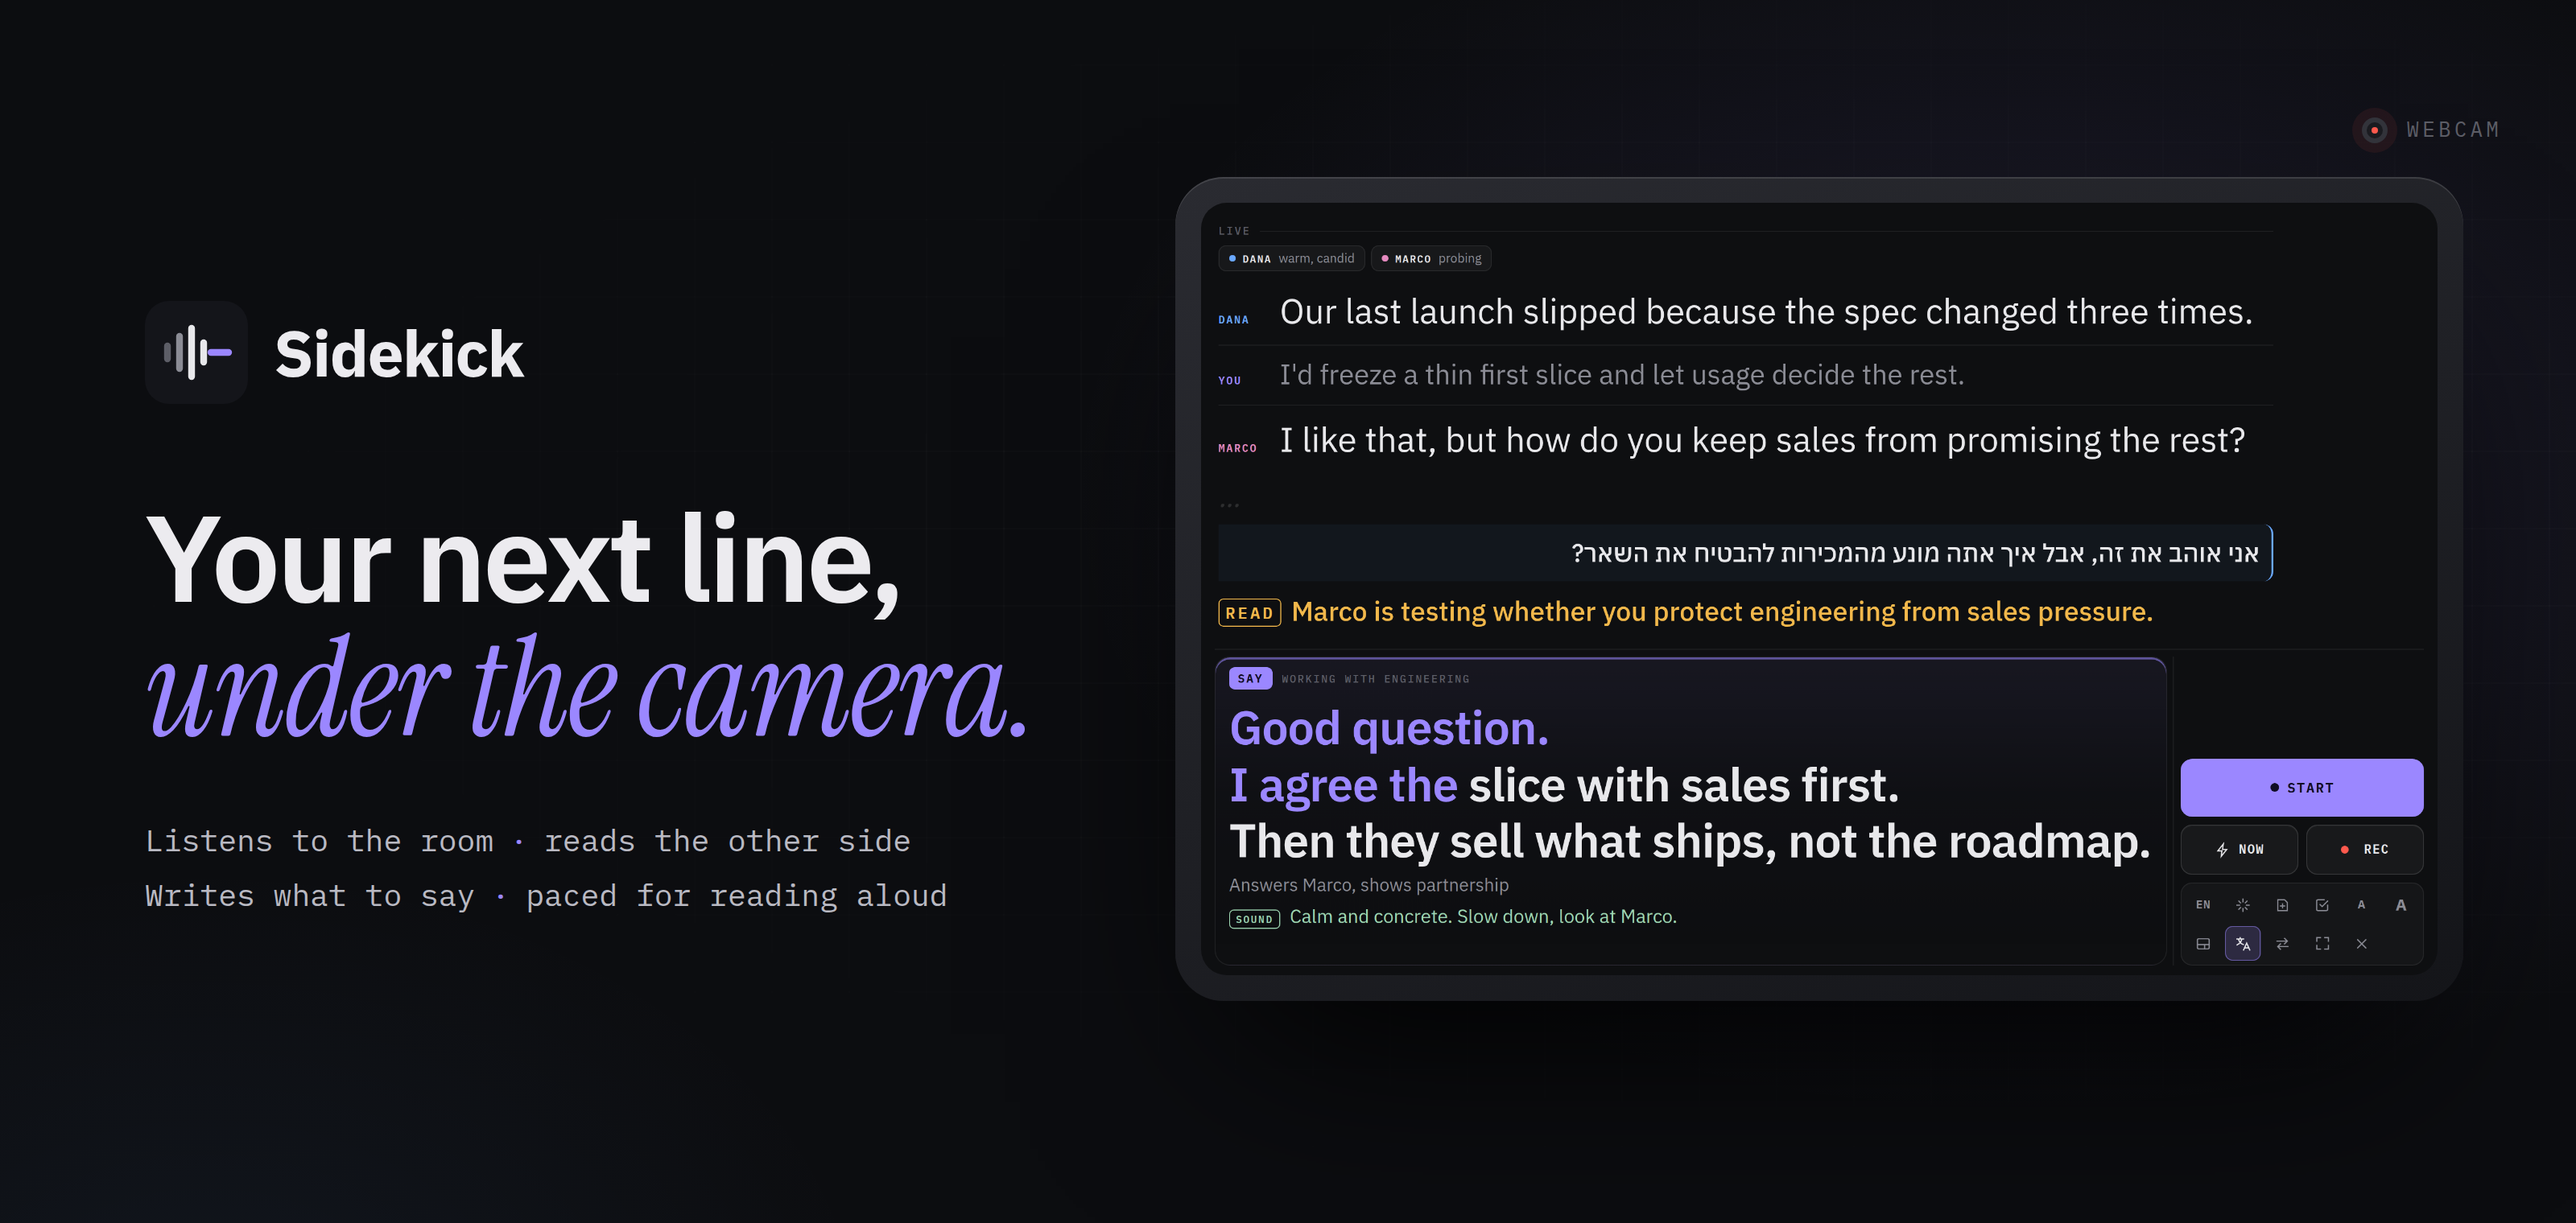
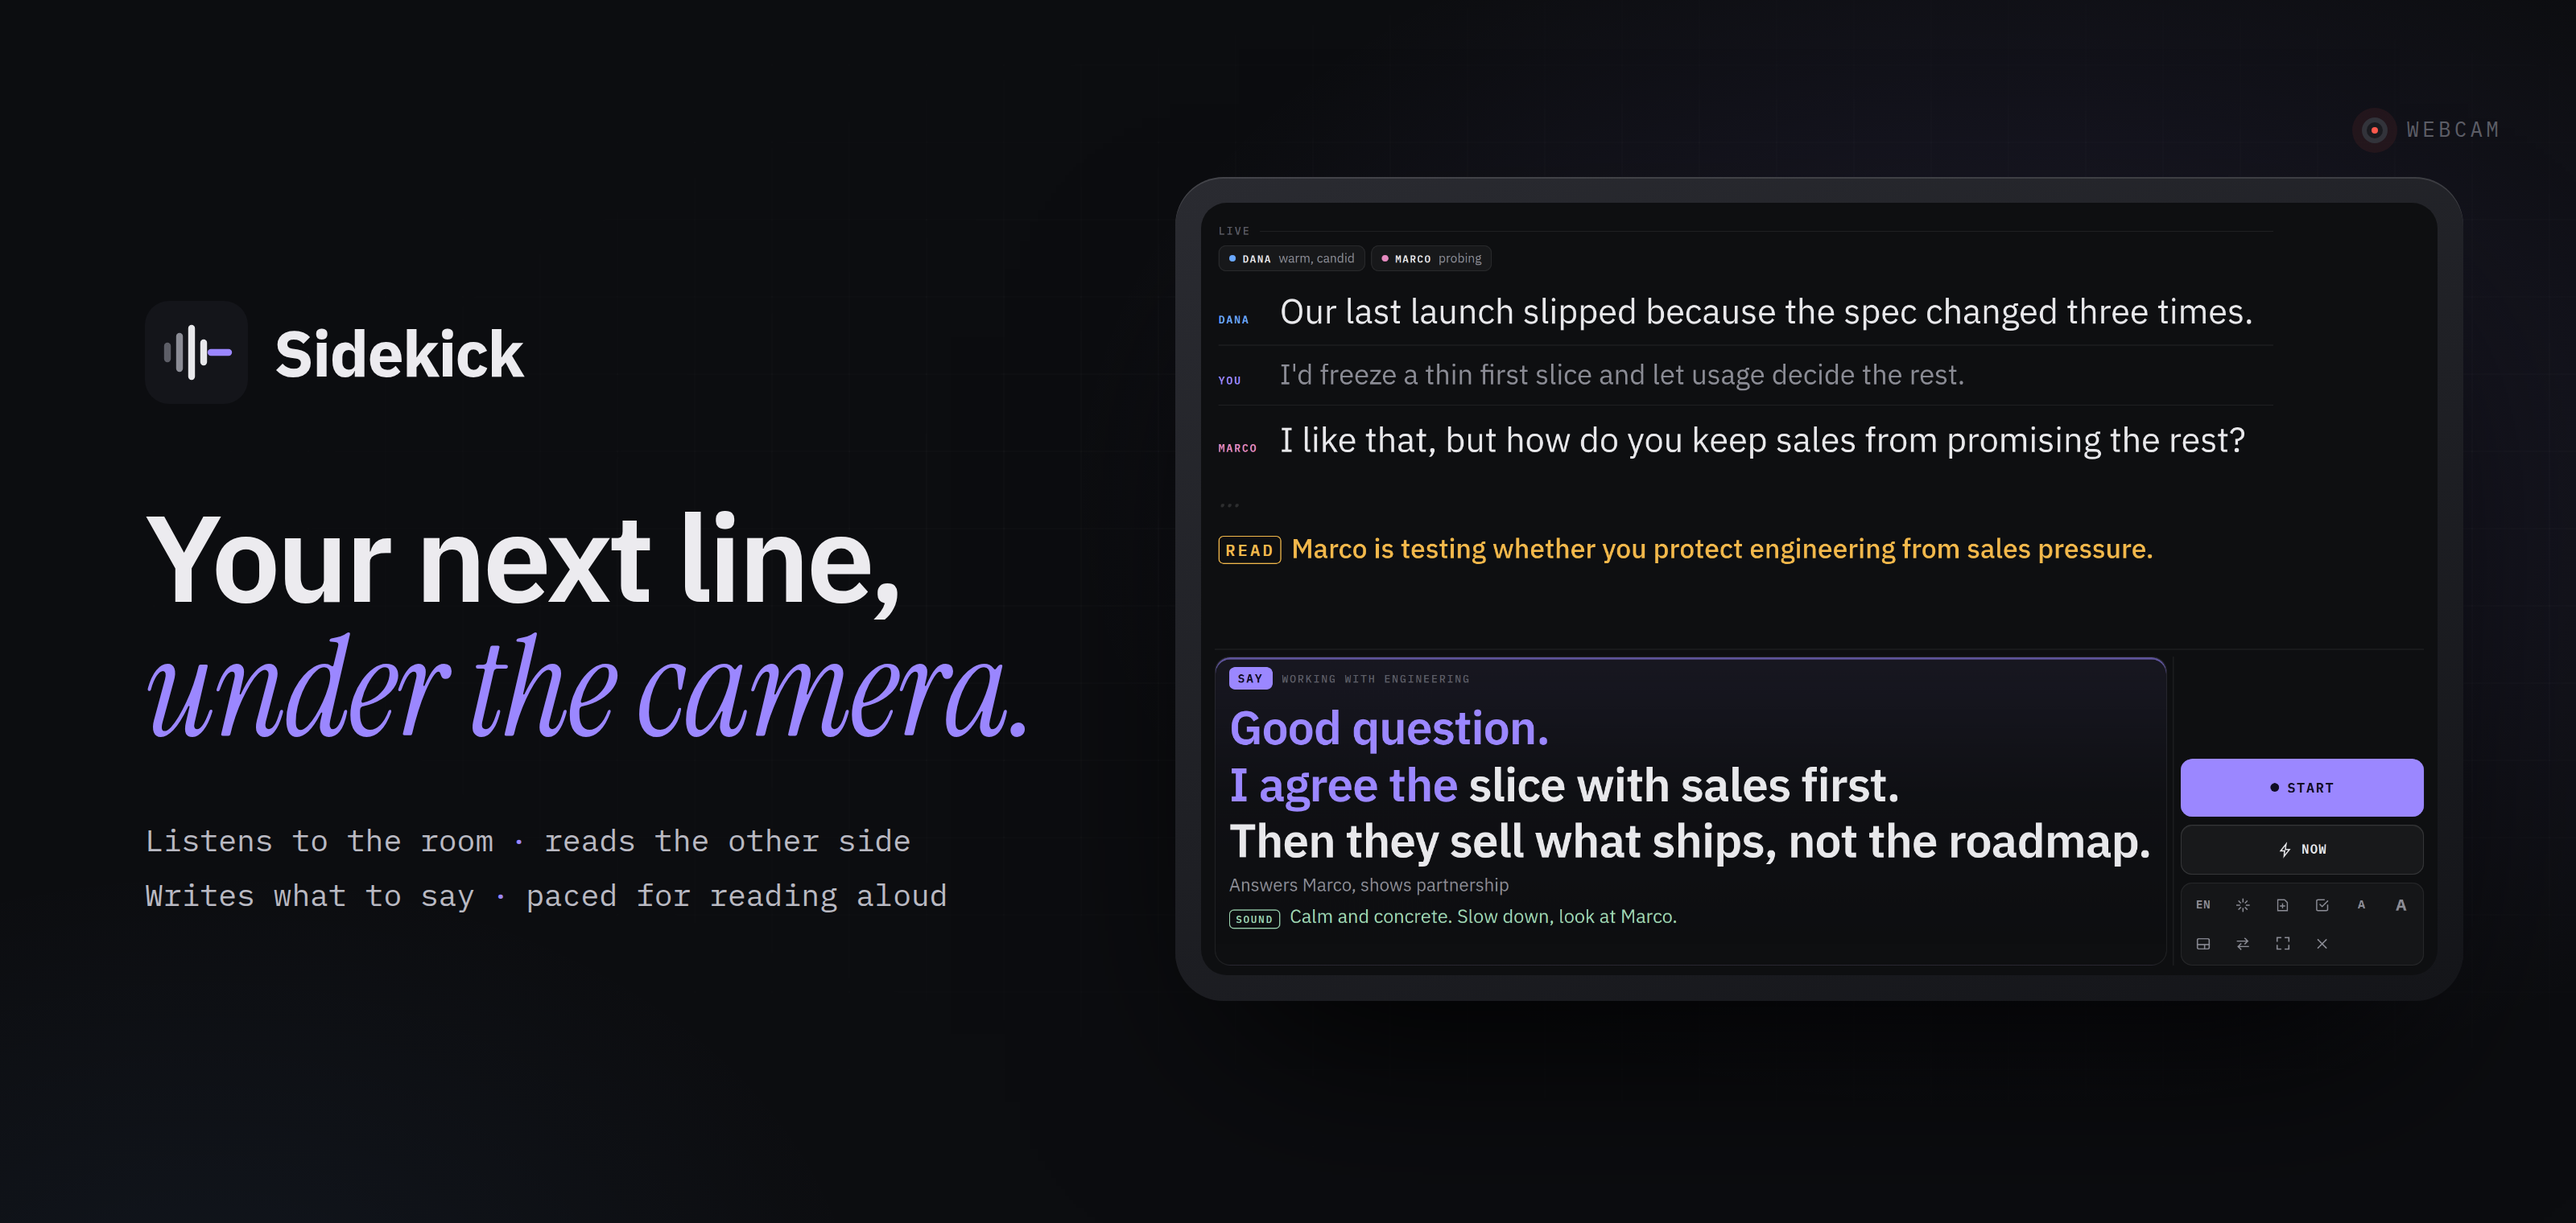
Showcase: English only, no recording

diff --git a/README.md b/README.md
@@ -25,14 +25,14 @@ It hears both sides of the meeting, reads what the other side really means, and 
 - **Paced for reading aloud.** Short sentences, one per row. The line follows my voice word by word, and a new suggestion never yanks away the sentence I'm in the middle of.
 - **Adapts when I go off script.** It judges by meaning, so a paraphrase counts as said and the next line continues from what I actually said.
 - **Hands off.** During the meeting I only touch the large buttons in the corner. The layout is resizable before the call, the text refits to whatever space it gets, and the sides flip when the camera is on the other side.
-- **Translation on demand.** The other side's lines can be glossed into Hebrew in a small strip; my own lines are never translated.
+- **Translation on demand.** The other side's lines can be glossed into my language in a small strip; my own lines are never translated.
 - **Prepared words win.** If my prep contains an exact answer for a situation, it appears verbatim.
 
 ## Before and after
 
 <img src="assets/gallery.png" alt="Meetings as tiles, the prep screen, and the automatic debrief." width="100%">
 
-The debrief holds the key points, decisions, action items by owner and date, open questions, each participant's stance, honest feedback on how I came across, and a follow-up message ready to send. The full transcript and the recording sit next to it, playable in the page.
+The debrief holds the key points, decisions, action items by owner and date, open questions, each participant's stance, honest feedback on how I came across, and a follow-up message ready to send. The full transcript sits next to it.
 
 ## At a glance
 
@@ -40,7 +40,7 @@ The debrief holds the key points, decisions, action items by owner and date, ope
 | --- | --- |
 | **Stack** | Node.js with no dependencies · a single-page web app (PWA) · Docker |
 | **AI** | Claude Haiku for the live line and the read · Claude Sonnet for the debrief · structured JSON output |
-| **Speech** | In-browser speech recognition (English and Hebrew) · MediaRecorder for the recording |
+| **Speech** | In-browser speech recognition, multilingual |
 | **Device** | Android tablet next to the webcam: wake lock, full screen, installable |
 | **Hosting** | Self-hosted, private network, password login |
 | **Status** | Working · voice-based speaker identification is next |
